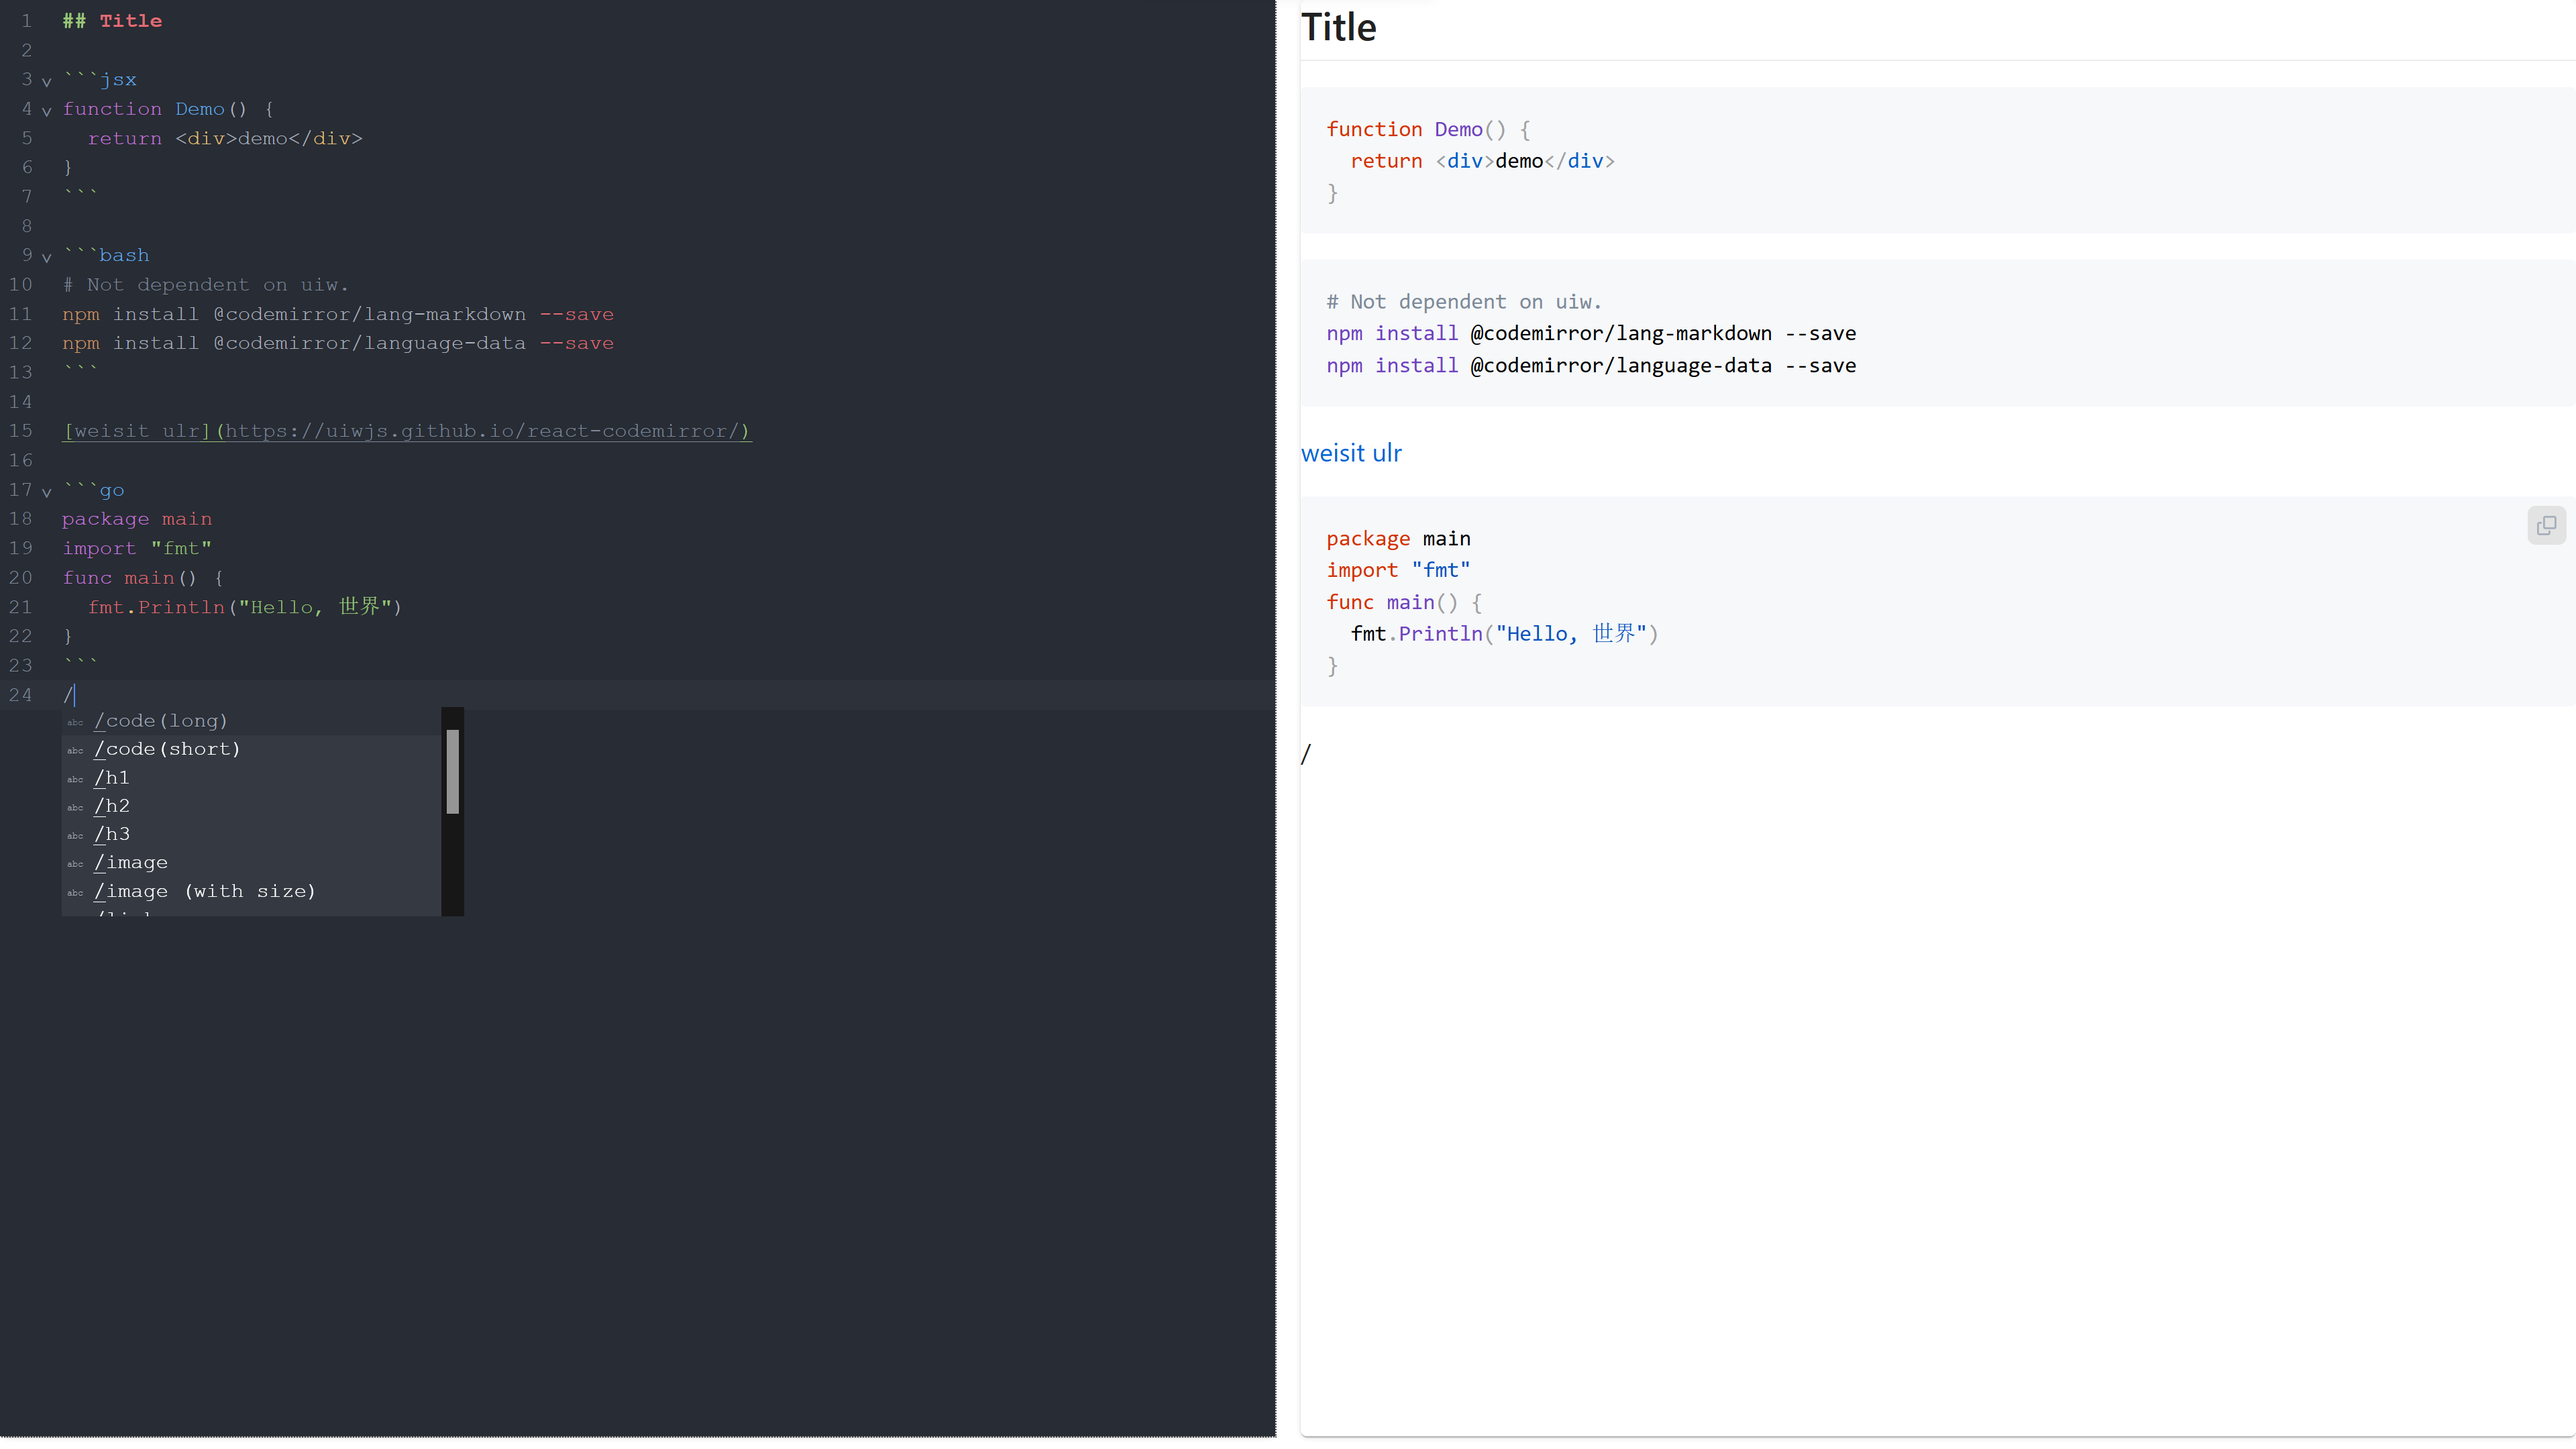
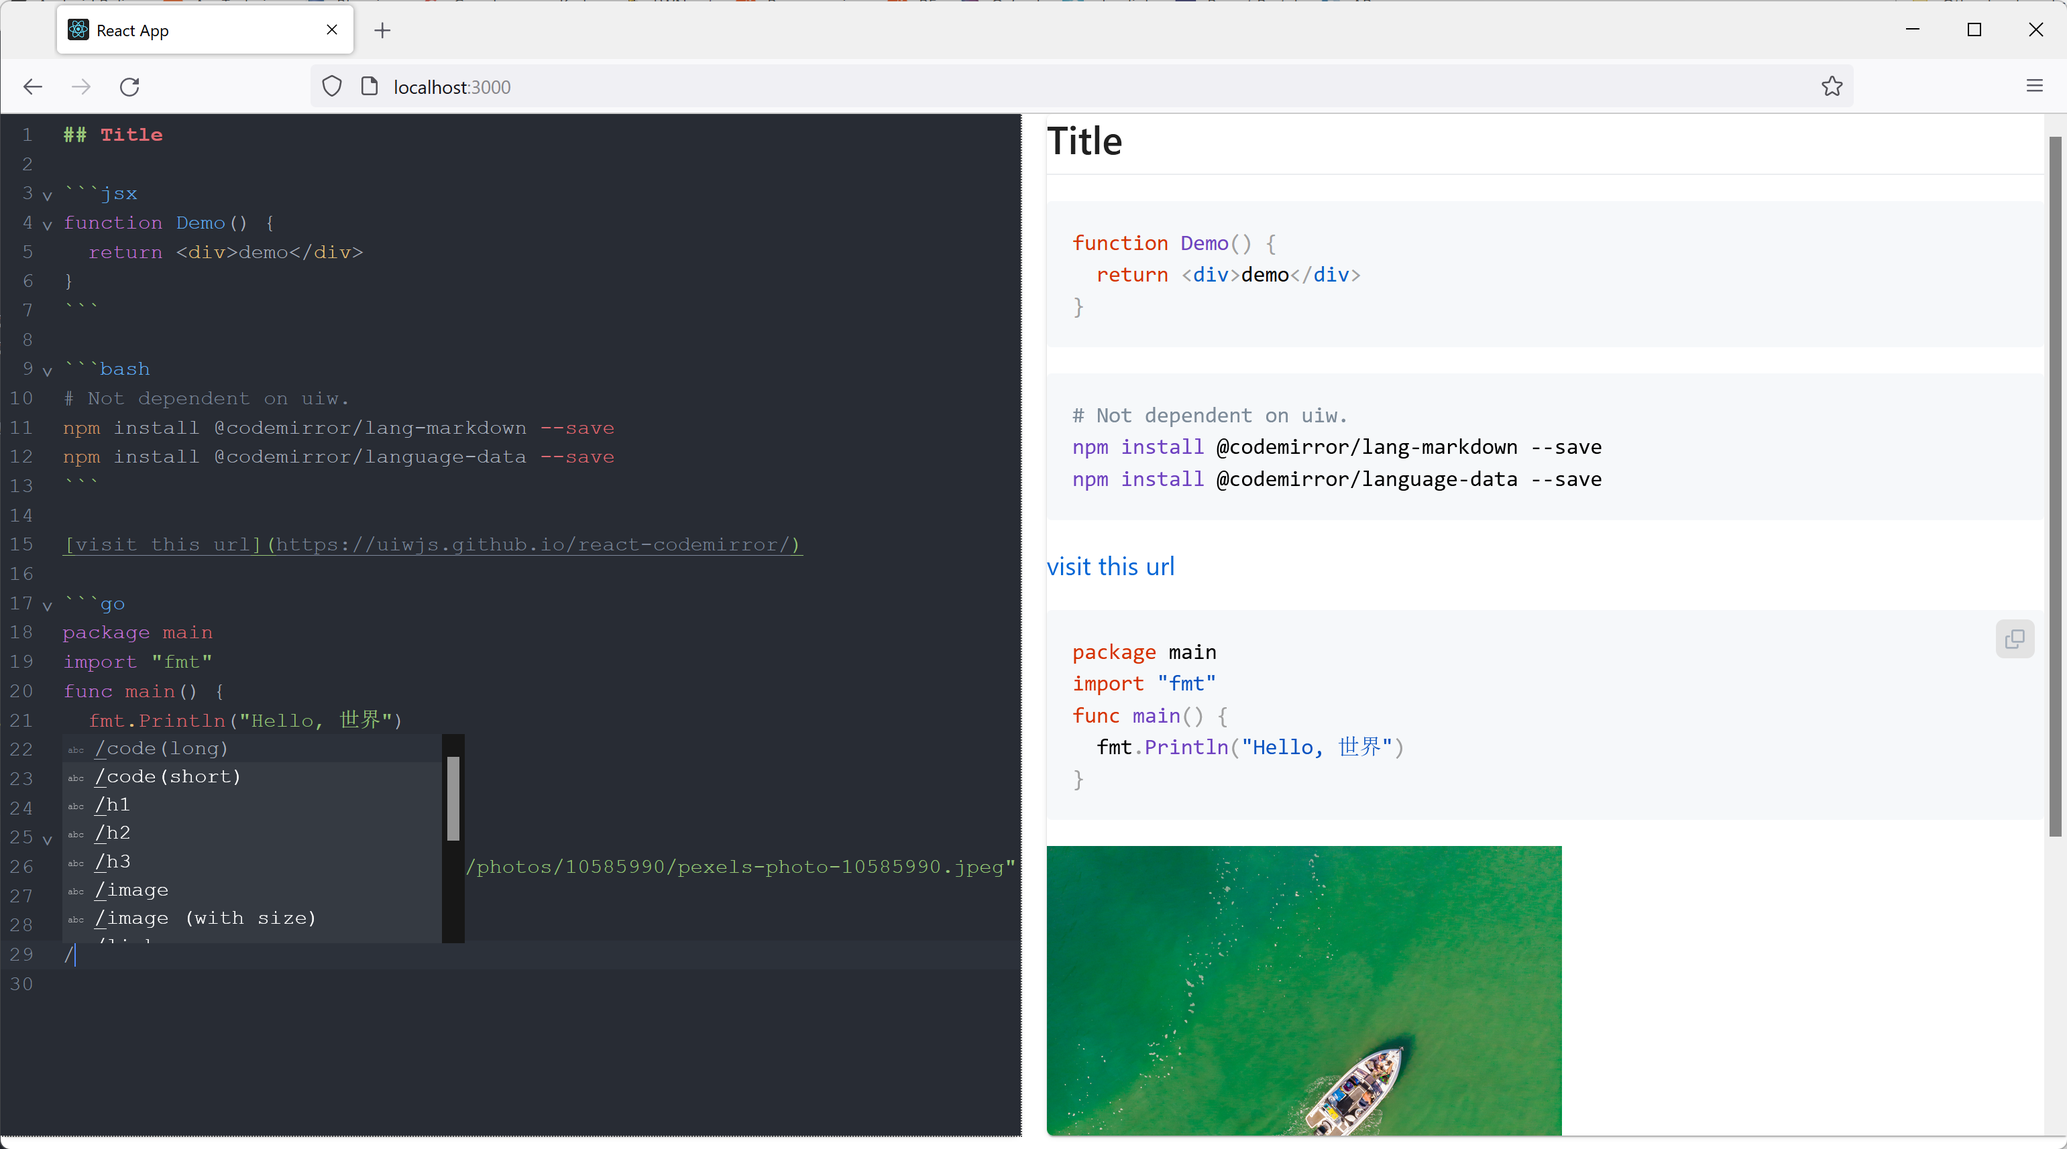
minor update

diff --git a/src/index.css b/src/index.css
@@ -1,15 +1,12 @@
 body {
   margin: 0;
-  font-family: -apple-system, BlinkMacSystemFont, 'Segoe UI', 'Roboto', 'Oxygen',
-    'Ubuntu', 'Cantarell', 'Fira Sans', 'Droid Sans', 'Helvetica Neue',
-    sans-serif;
+  font-family: system-ui, -apple-system, BlinkMacSystemFont, "Segoe UI", Roboto, "Helvetica Neue", Arial, sans-serif;
   -webkit-font-smoothing: antialiased;
   -moz-osx-font-smoothing: grayscale;
 }
 
 code {
-  font-family: source-code-pro, Menlo, Monaco, Consolas, 'Courier New',
-    monospace;
+  font-family:  "SFMono-Regular", source-code-pro, Menlo, Monaco, 'Fira Code', Consolas, monospace;
 }
 
 ::-webkit-scrollbar {

diff --git a/src/Initcode.jsx b/src/Initcode.jsx
@@ -12,7 +12,7 @@ npm install @codemirror/lang-markdown --save
 npm install @codemirror/language-data --save
 \`\`\`
 
-[weisit ulr](https://uiwjs.github.io/react-codemirror/)
+[visit this url](https://uiwjs.github.io/react-codemirror/)
 
 \`\`\`go
 package main
@@ -21,4 +21,10 @@ func main() {
   fmt.Println("Hello, 世界")
 }
 \`\`\`
+
+<image
+  src="https://images.pexels.com/photos/10585990/pexels-photo-10585990.jpeg"
+  width="320"
+/>
+
 `;
